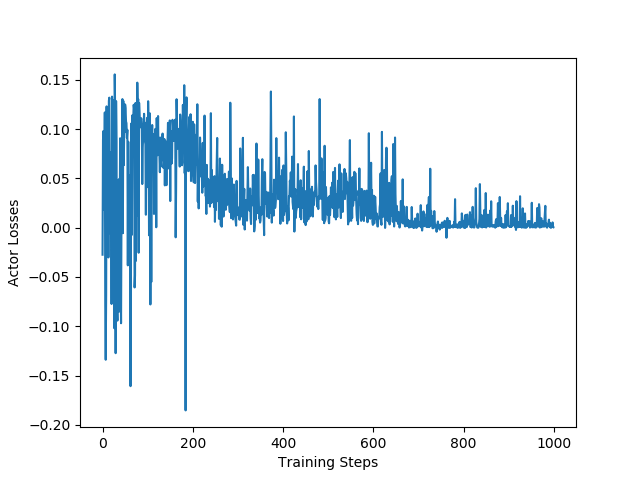
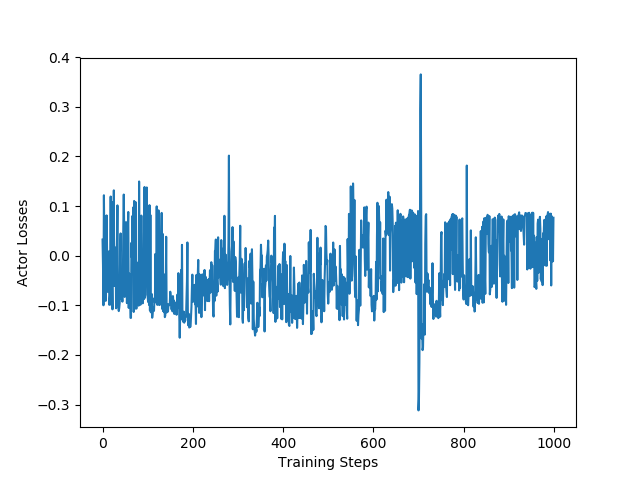
add ppo to update step

diff --git a/helpers.py b/helpers.py
@@ -106,43 +106,43 @@ def save_model(model, filename):
     torch.save(state, filename)
 
 
-def load_model(model, optimizer, filename, evalMode=True):
+def load_model(model, filename, evalMode=True):
     checkpoint = torch.load(filename)
     model.load_state_dict(checkpoint['state_dict'])
-    optimizer.load_state_dict(checkpoint['optimizer'])
 
     if evalMode:
         model.eval()
     else:
         model.train()
 
-    return model, optimizer
+    return model
 
 
-def worker(model, params):
+def worker(model, params, render=False, train=True):
     env = gym.make("CartPole-v1")
-    env._max_episode_steps = 1000
+    env._max_episode_steps = 5000
     optimizer = torch.optim.Adam(
         lr=params['lr'], params=model.parameters())
 
     for epoch in range(params['epochs']):
         values, logprobs, rewards, eplen = run_episode(
-            env, model, optimizer, params)
+            env, model, optimizer, params, render, train)
 
-        loss, actor_loss, critic_loss = update_params(
-            optimizer, values, logprobs, rewards, params)
+        if train:
+            loss, actor_loss, critic_loss = update_params(
+                optimizer, values, logprobs, rewards, params)
 
-        params['losses'].append(loss.item())
-        params['durations'].append(eplen)
-        params['actor_losses'].append(actor_loss.item())
-        params['critic_losses'].append(critic_loss.item())
+            params['losses'].append(loss.item())
+            params['durations'].append(eplen)
+            params['actor_losses'].append(actor_loss.item())
+            params['critic_losses'].append(critic_loss.item())
 
-        if epoch % 10 == 0:
-            print("Epoch: {}, Loss: {:.4f}, Ep Len: {}".format(
-                epoch, loss, eplen))
+            if epoch % 10 == 0:
+                print("Epoch: {}, Loss: {:.4f}, Ep Len: {}".format(
+                    epoch, loss, eplen))
 
 
-def run_episode(env, model, optimizer, params):
+def run_episode(env, model, optimizer, params, render, train):
     state = torch.from_numpy(env.reset()).float()
     values, logprobs, rewards = [], [], []
     done = False
@@ -166,19 +166,22 @@ def run_episode(env, model, optimizer, params):
         state_, reward, done, _ = env.step(action.detach().numpy())
         state = torch.from_numpy(state_).float()
 
+        if render:
+            env.render()
+
         if done:
             reward = -10
             env.reset()
 
         rewards.append(reward)
 
-        if step_count % params['step_update'] == 0:
+        if train and step_count % params['step_update'] == 0:
             update_params(optimizer, values, logprobs, rewards, params, mid_update=True)
 
     return values, logprobs, rewards, len(rewards)
 
 
-prev_logprobs = 0
+prev_logprobs = torch.Tensor([0])
 def update_params(optimizer, values, logprobs, rewards, params, mid_update=False):
     global prev_logprobs
 
@@ -203,12 +206,18 @@ def update_params(optimizer, values, logprobs, rewards, params, mid_update=False
     Returns = torch.stack(Returns).view(-1)
     Returns = F.normalize(Returns, dim=0)
 
-    actor_loss = -1*logprobs * (Returns - values.detach()) * gae_reduction
+    ppo_ratio = (logprobs - prev_logprobs[-1:]).exp()
+    torch.cat((prev_logprobs[1:], logprobs))
+    advantage = Returns - values.detach()
+    surrogate0 = ppo_ratio * advantage
+    surrogate1 = torch.clamp(ppo_ratio, 1.0 - params['ppo_epsilon'], 1.0 + params['ppo_epsilon']) * advantage
+
+    actor_loss = - torch.min(surrogate0, surrogate1) * gae_reduction
     critic_loss = torch.pow(values - (Returns * gae_reduction), 2)
 
-    loss = actor_loss.sum() + params['clc']*critic_loss.sum()
+    loss = actor_loss.mean() + params['clc']*critic_loss.mean()
     optimizer.zero_grad()
     loss.backward(retain_graph=True)
     optimizer.step()
 
-    return loss, actor_loss.sum(), critic_loss.sum()
+    return loss, actor_loss.sum(), critic_loss.mean()

diff --git a/test_net.py b/test_net.py
@@ -3,37 +3,33 @@ import gym
 import numpy as np
 from time import sleep
 
-from model import get_model
-from helpers import load_model
+from model import ActorCritic
+from helpers import load_model, worker
 
-lr = 0.0009
+lr = 0.001
+gamma = 0.99
+gae = 0.9
+clc = 0.1
+step_update = 50
+ppo_epsilon = 0.2
+
 input_dim = 4
-hidden = 150
-output_dim = 2
-max_timesteps = 3000
+shared_hidden0 = 25
+shared_hidden1 = 50
+critic_hidden = 25
+output_dim_actor = 2
+output_dim_critic = 1
 
-model, optimizer = get_model(input_dim, hidden, output_dim, lr)
+model = ActorCritic(
+    input_dim, shared_hidden0, shared_hidden1, critic_hidden, output_dim_actor, output_dim_critic)
 
-filename = 'checkpoint-863.pt'
-model, optimizer = load_model(model, optimizer, filename)
+filename = 'actor_critic.pt'
+model = load_model(model, filename)
 
-env = gym.make('CartPole-v0')
-env._max_episode_steps = max_timesteps
+params = {
+    'epochs': 1,
+    'n_workers': 0,
+    'lr': lr
+}
 
-done = False
-state = env.reset()
-duration = 0
-
-while not done:
-    pred = model(torch.from_numpy(state).float())
-    action = np.random.choice(np.array([0, 1]), p=pred.data.numpy())
-    next_state, _reward, done, _info = env.step(action)
-    env.render()
-
-    state = next_state
-    duration += 1
-
-env.close()
-print("success: {} :: {:.2f}".format(duration ==
-                                 max_timesteps, duration / max_timesteps))
- 
+worker(model, params, render=True, train=False)

diff --git a/main.py b/main.py
@@ -15,6 +15,7 @@ gamma = 0.99
 gae = 0.9
 clc = 0.1
 step_update = 50
+ppo_epsilon = 0.2
 
 input_dim = 4
 shared_hidden0 = 25
@@ -39,6 +40,7 @@ params = {
     'step_update': step_update,
     'gamma': gamma,
     'gae': gae,
+    'ppo_epsilon': ppo_epsilon,
     'clc': clc, 
     'losses': losses,
     'durations': durations,

diff --git a/temp.py b/temp.py
@@ -1,0 +1,6 @@
+import numpy as np
+
+thing = [0]
+
+print(np.concatenate((thing[1:], [1])))
+
